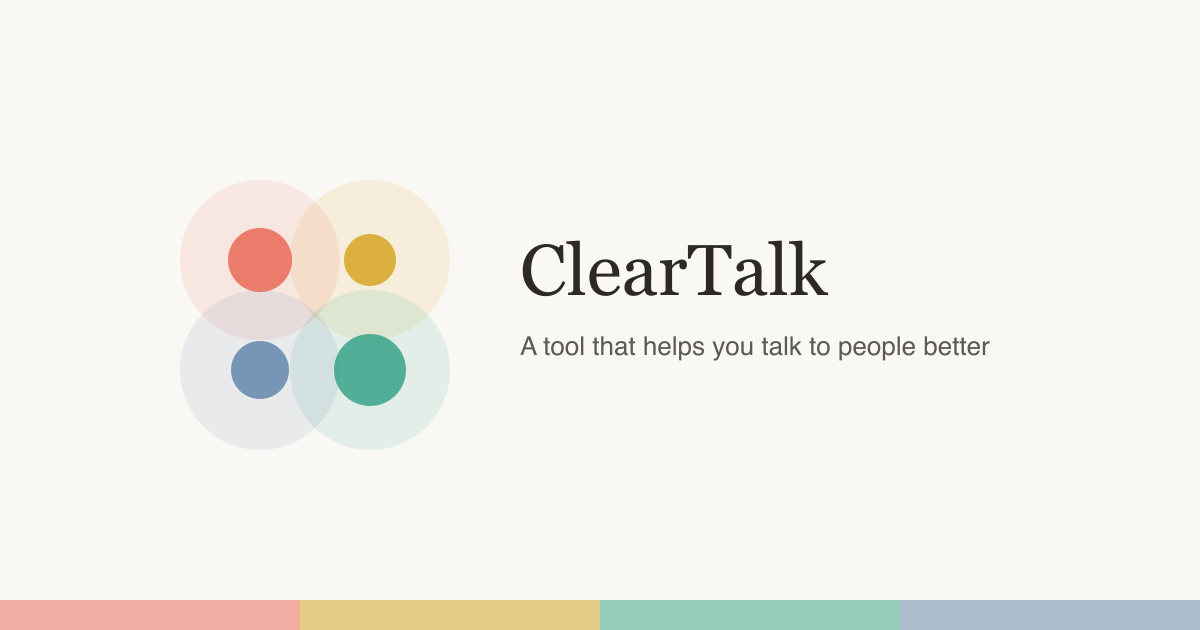
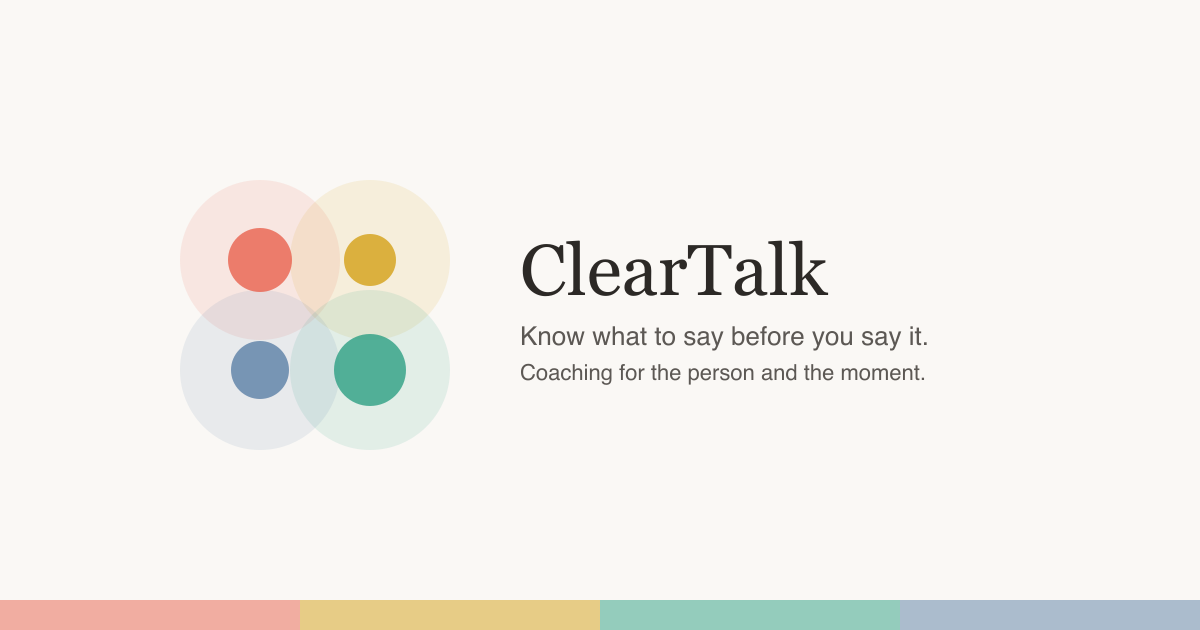
feat: per-pair OG images, runtime caching for coaching cards, wrangler v4
- Align OG image tagline with ClearTalk voice ("Know what to say before
  you say it")
- Generate 16 type-pair OG images for insight routes so shared links
  show the specific pair instead of a generic card
- Move coaching card chunks from precache to StaleWhileRevalidate
  runtime caching to reduce initial load by ~40KB gzip
- Pin wrangler-action to v3.14.1 and use wrangler CLI v4

Changed region(s): [[0.4317, 0.5127, 0.8325, 0.6032]]

diff --git a/vite.config.ts b/vite.config.ts
@@ -9,8 +9,34 @@ export default defineConfig({
       registerType: 'autoUpdate',
       workbox: {
         globPatterns: ['**/*.{js,css,html,svg,png,woff2}'],
+        globIgnores: [
+          '**/assets/og/*.png',
+          '**/feedback-*.js',
+          '**/request-*.js',
+          '**/conflict-*.js',
+          '**/pitch-*.js',
+          '**/difficult-news-*.js',
+        ],
         navigateFallback: '/index.html',
         navigateFallbackDenylist: [/^\/api\//],
+        runtimeCaching: [
+          {
+            urlPattern: /\/(feedback|request|conflict|pitch|difficult-news)-[a-zA-Z0-9_-]+\.js$/,
+            handler: 'StaleWhileRevalidate',
+            options: {
+              cacheName: 'coaching-cards',
+              expiration: { maxEntries: 10, maxAgeSeconds: 30 * 24 * 60 * 60 },
+            },
+          },
+          {
+            urlPattern: /\/assets\/og\/.+\.png$/,
+            handler: 'CacheFirst',
+            options: {
+              cacheName: 'og-images',
+              expiration: { maxEntries: 20, maxAgeSeconds: 90 * 24 * 60 * 60 },
+            },
+          },
+        ],
       },
       manifest: {
         name: 'ClearTalk',
